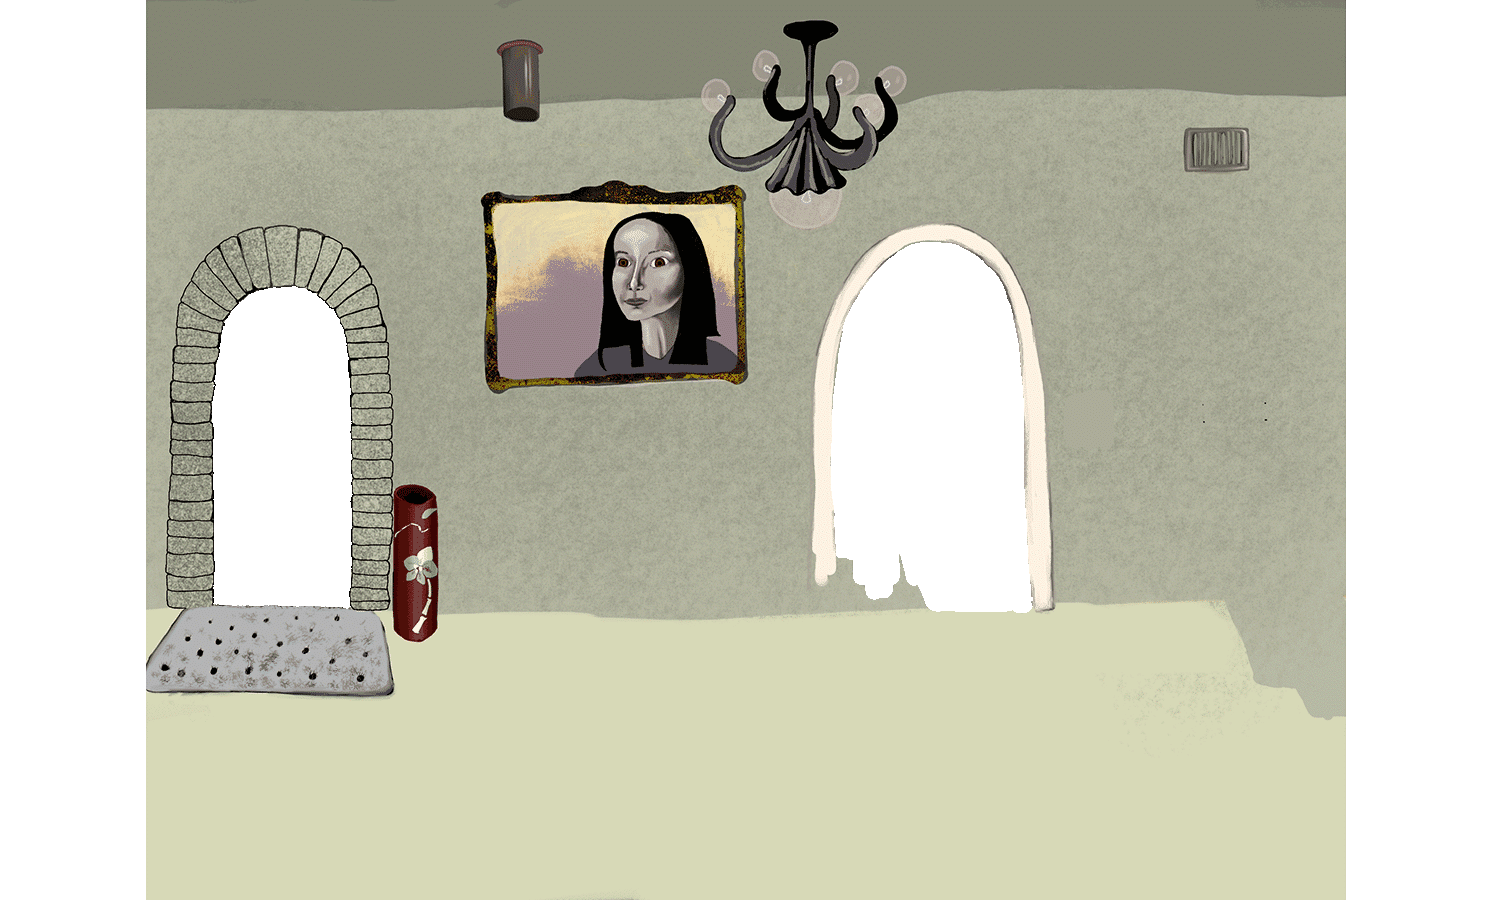
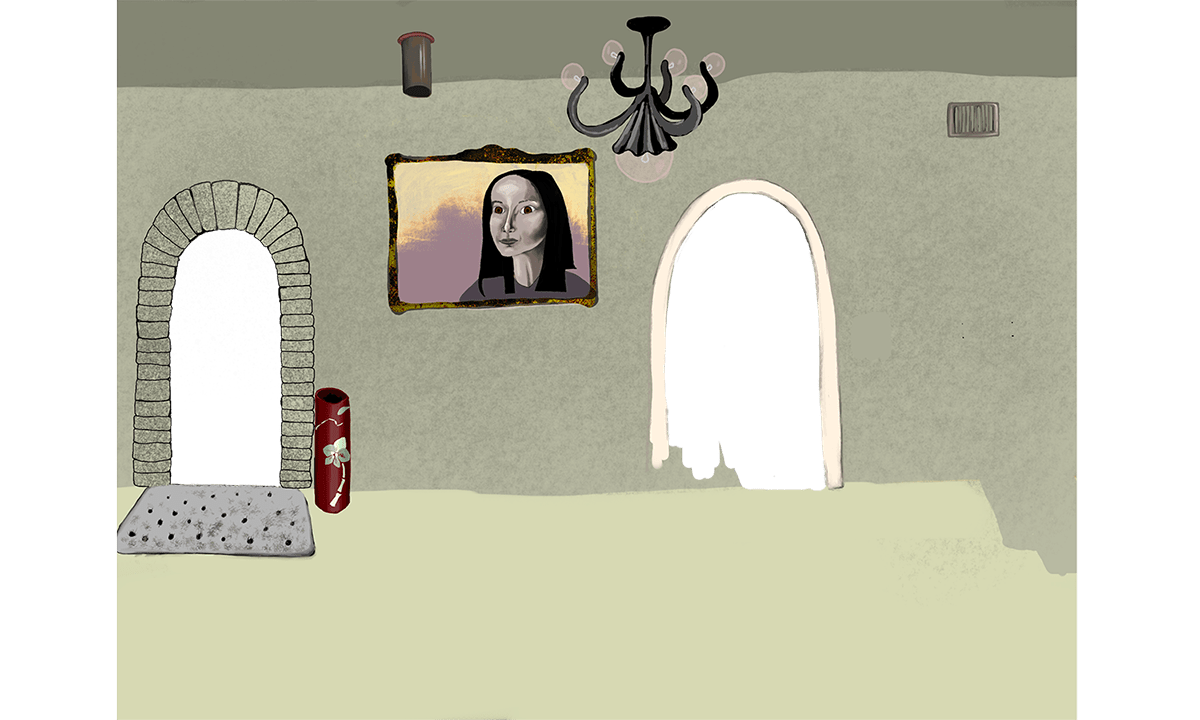
new smaller images

diff --git a/src/ButtonRoom.jsx b/src/ButtonRoom.jsx
@@ -133,9 +133,6 @@ export function ButtonRoom() {
         <Login />
       ) : (
         <>
-          <Suspense>
-            <img className="top-box" src={isBoxFixed} />
-          </Suspense>
           <button onClick={toggleTalking} hidden={isTalking} id="talkingtome">
             <p>{talkText}</p>
           </button>
@@ -145,48 +142,41 @@ export function ButtonRoom() {
             <img id="exit" src="/images/exit.png" />
           </button>
           <Suspense>
+            <img className="top-box" src={isBoxFixed} />
             <img src="/images/eyespainting.png" className="eyesPaintingActual" />
-          </Suspense>
-          <button className="eyesPainting" onClick={movingEyes}></button>
-          <button onClick={computer}>
-            <Suspense>
+            <button className="eyesPainting" onClick={movingEyes}></button>
+            <button onClick={computer}>
               <img id="computer" src="/images/computer.png" />
-            </Suspense>
-          </button>
-          <button onClick={handleShowLight}>
-            <img id="lightswitch" src="/images/lightswitch.png" />
-          </button>
-          <button id="artifactbox" onClick={seeArtifacts}></button>
-          <button onClick={exitRoom}>
-            <img id="exit" src="/images/exit.png" />
-          </button>
-          <button
-            id="opencurtain"
-            onMouseEnter={() => setImage("/images/opencurtainorange.png")}
-            onMouseLeave={() => setImage("/images/closecurtainorange.png")}
-            onClick={catalog}
-          ></button>
-          <button
-            id="stairs"
-            onMouseEnter={() => setStairs("/images/stairslight.png")}
-            onMouseLeave={() => setStairs("/images/stairs.png")}
-            onClick={exitRoom}
-          ></button>
-          <button
-            id="grate"
-            onMouseEnter={() => setGrate("/images/eyeballgrate.png")}
-            onMouseLeave={() => setGrate("")}
-            onClick={exitRoom}
-          ></button>
-
-          {/* <Curtain show={openCurtain} /> */}
-          <Suspense>
+            </button>
+            <button onClick={handleShowLight}>
+              <img id="lightswitch" src="/images/lightswitch.png" />
+            </button>
+            <button id="artifactbox" onClick={seeArtifacts}></button>
+            <button onClick={exitRoom}>
+              <img id="exit" src="/images/exit.png" />
+            </button>
+            <button
+              id="opencurtain"
+              onMouseEnter={() => setImage("/images/opencurtainorange.png")}
+              onMouseLeave={() => setImage("/images/closecurtainorange.png")}
+              onClick={catalog}
+            ></button>
+            <button
+              id="stairs"
+              onMouseEnter={() => setStairs("/images/stairslight.png")}
+              onMouseLeave={() => setStairs("/images/stairs.png")}
+              onClick={exitRoom}
+            ></button>
+            <button
+              id="grate"
+              onMouseEnter={() => setGrate("/images/eyeballgrate.png")}
+              onMouseLeave={() => setGrate("")}
+              onClick={exitRoom}
+            ></button>
             <img className="counterJulia" src="/images/counterJulia.gif" />
-          </Suspense>
-          <Suspense>
+
             <img className="counter" src="/images/counter.png" />
-          </Suspense>
-          <Suspense>
+
             <img className="roombackground" src="/images/home_background.png" />
             <img className="opencurtain" src={image} />
             <img className="stairsImage" src={stairs} />
